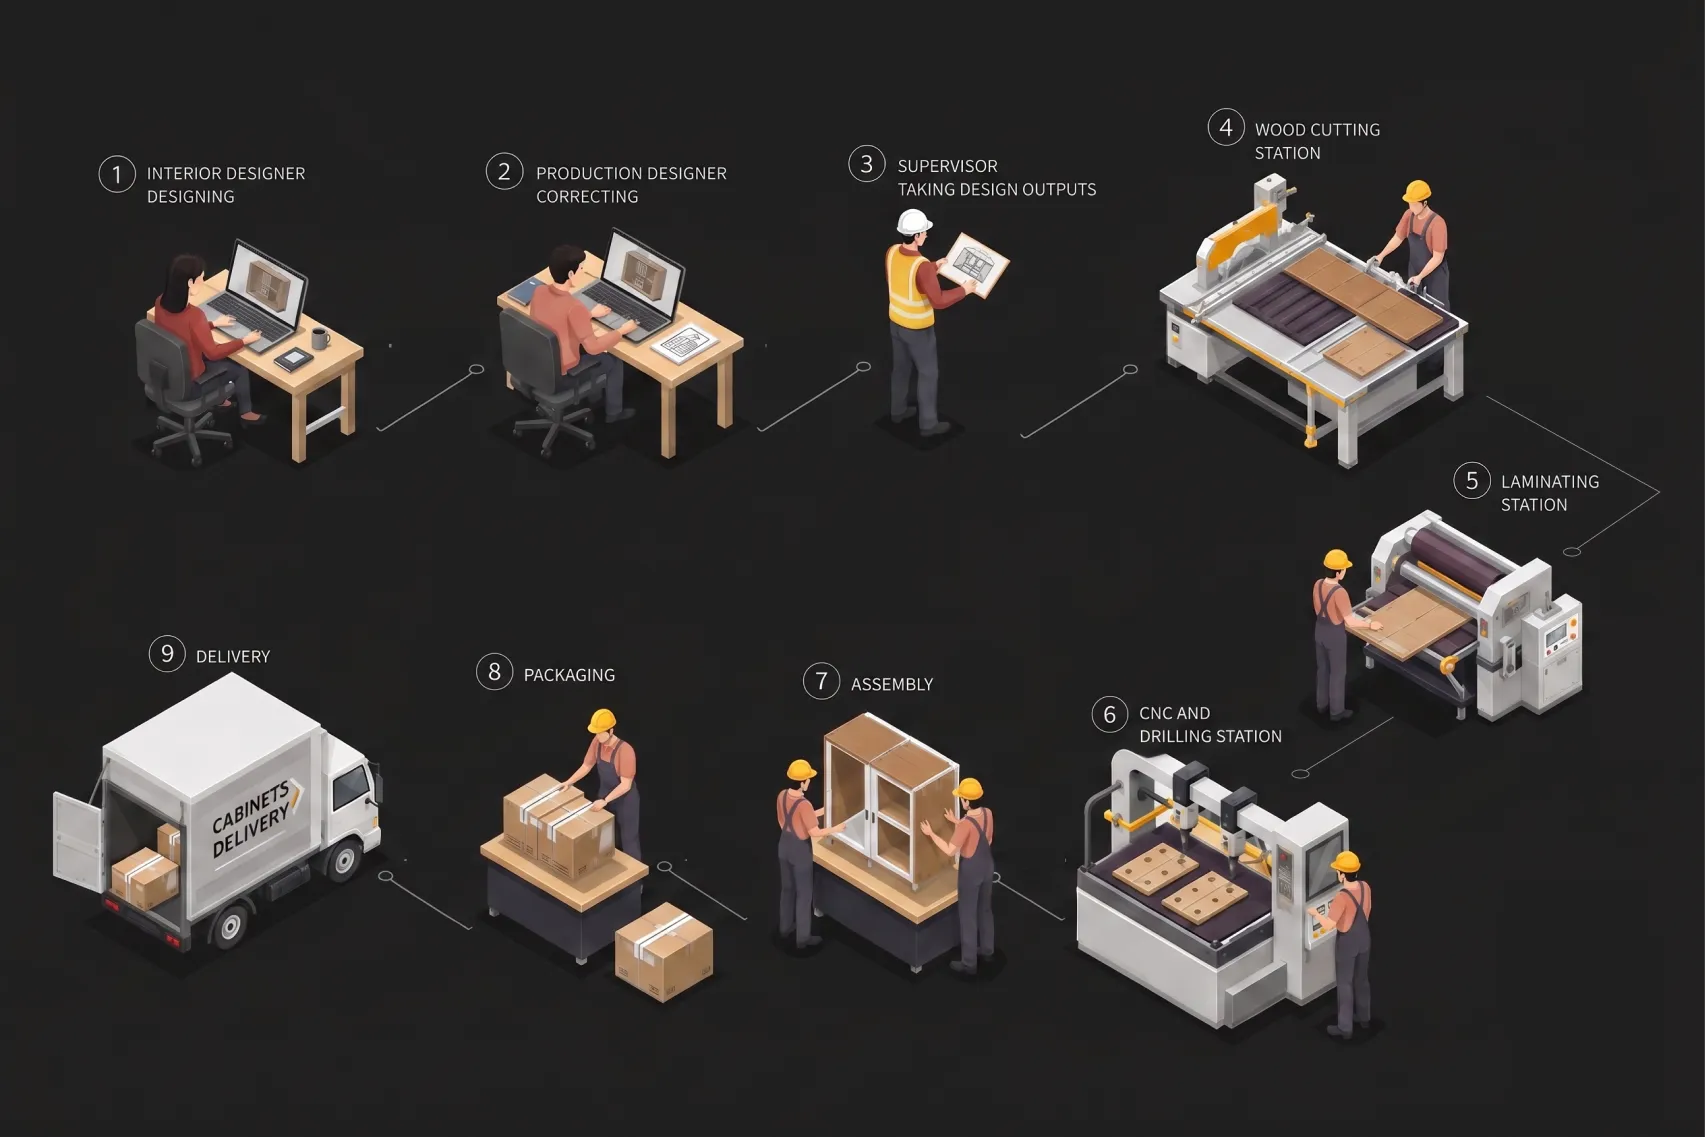
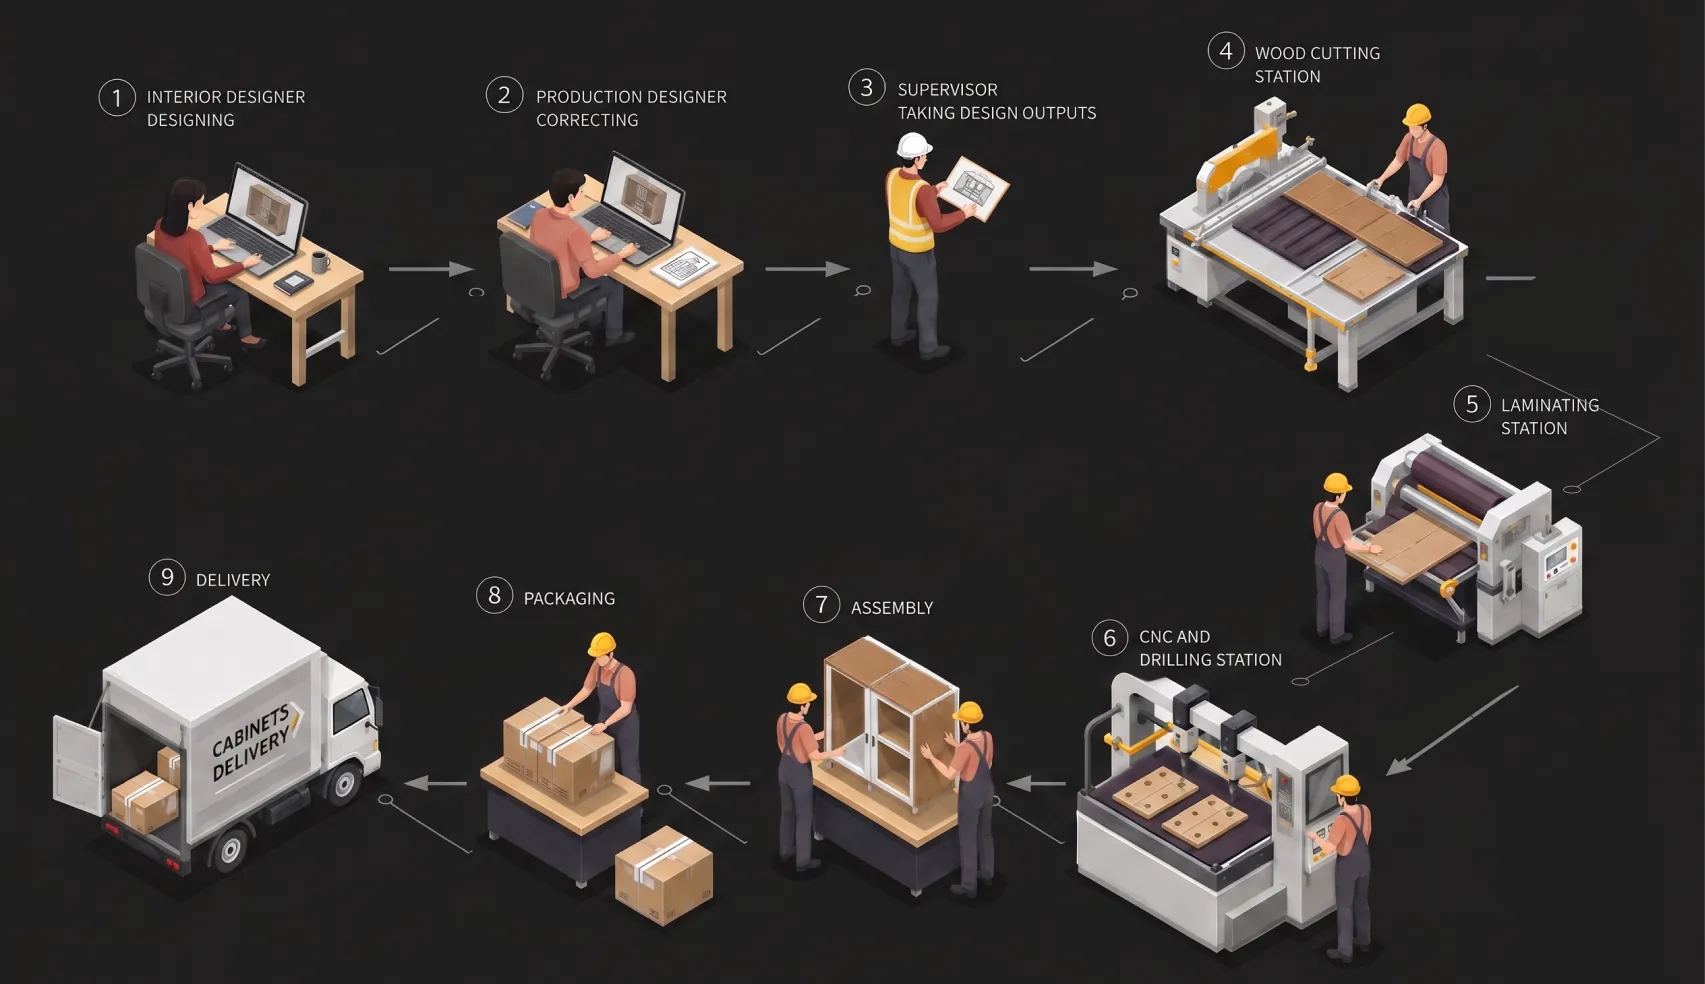
Polish hover crossfades, merge Published Work into Projects, tune homepage cards
- Scope the SSO/MES cover crossfade trigger to the "View product" hint text
  and fix a layout shift on hover; scale down swap product images slightly.
- Turn "View published works" into a real open/hide toggle with a rotating
  chevron, move the Published Work block inside the Projects section, and
  strip its now-redundant background pattern.
- Add a touch more vertical padding to the homepage project cards.
- Update journey and MES cover banner images.

diff --git a/index.html b/index.html
@@ -198,15 +198,14 @@
 
     </div>
     <a href="#publications" class="view-published-link" id="viewPublishedLink">
-      <svg viewBox="0 0 24 24" fill="none" stroke="currentColor" stroke-width="2" stroke-linecap="round" stroke-linejoin="round" aria-hidden="true"><polyline points="6 9 12 15 18 9"></polyline></svg>
-      View published works
+      <svg class="view-published-chevron" viewBox="0 0 24 24" fill="none" stroke="currentColor" stroke-width="2" stroke-linecap="round" stroke-linejoin="round" aria-hidden="true"><polyline points="6 9 12 15 18 9"></polyline></svg>
+      <span class="view-published-label">View published works</span>
     </a>
-  </section>
 
-  <!-- PUBLICATIONS -->
-  <section class="publications" id="publications" style="display:none;">
-    <h2 class="sec-title">Published Work</h2>
-    <div class="cards-list">
+    <!-- PUBLICATIONS -->
+    <div class="publications" id="publications" style="display:none;">
+      <h2 class="sec-title">Published Work</h2>
+      <div class="cards-list">
 
       <!-- Large card -->
       <a href="lumigo-coded.html" class="hcard pub-large fade-up">
@@ -308,6 +307,7 @@
         </a>
 
       </div>
+    </div>
     </div>
   </section>
 
@@ -612,11 +612,21 @@
   <script>
     const viewPublishedLink = document.getElementById('viewPublishedLink');
     const publicationsSection = document.getElementById('publications');
+    const viewPublishedLabel = viewPublishedLink && viewPublishedLink.querySelector('.view-published-label');
     if (viewPublishedLink && publicationsSection) {
       viewPublishedLink.addEventListener('click', (e) => {
         e.preventDefault();
-        publicationsSection.style.display = '';
-        publicationsSection.scrollIntoView({ behavior: 'smooth', block: 'start' });
+        const isOpen = publicationsSection.style.display !== 'none';
+        if (isOpen) {
+          publicationsSection.style.display = 'none';
+          viewPublishedLabel.textContent = 'View published works';
+          viewPublishedLink.classList.remove('is-open');
+        } else {
+          publicationsSection.style.display = '';
+          viewPublishedLabel.textContent = 'Hide published work';
+          viewPublishedLink.classList.add('is-open');
+          publicationsSection.scrollIntoView({ behavior: 'smooth', block: 'start' });
+        }
       });
     }
   </script>

diff --git a/style.css b/style.css
@@ -531,7 +531,7 @@ h1, h2, h3, h4, h5, h6 {
   align-items: center;
   gap: 6px;
   width: fit-content;
-  margin: 56px auto 0;
+  margin: 28px auto 0;
   font-size: 13px;
   color: var(--muted);
   text-decoration: none;
@@ -540,6 +540,10 @@ h1, h2, h3, h4, h5, h6 {
   width: 14px;
   height: 14px;
   flex-shrink: 0;
+  transition: transform 0.25s ease;
+}
+.view-published-link.is-open svg {
+  transform: rotate(180deg);
 }
 .view-published-link:hover {
   color: var(--blue);
@@ -563,7 +567,7 @@ h1, h2, h3, h4, h5, h6 {
 }
 
 .hcard-text {
-  padding: 32px 36px;
+  padding: 40px 36px;
   display: flex;
   flex-direction: column;
   min-height: 0;
@@ -687,11 +691,15 @@ h1, h2, h3, h4, h5, h6 {
 
 .hcard-img-swap {
   opacity: 0;
+  transform: scale(0.9);
   transition: opacity 0.8s ease, transform 0.4s ease;
 }
 .hcard:hover .hcard-img-swap {
   opacity: 1;
   transition: opacity 0.8s ease 0.6s, transform 0.4s ease;
+}
+.hcard:hover .hcard-img .hcard-img-swap.hcard-img-contain {
+  transform: scale(0.9);
 }
 
 .hcard-img:has(.hcard-img-swap) > img:not(.hcard-img-swap) {
@@ -833,25 +841,6 @@ h1, h2, h3, h4, h5, h6 {
 .publications {
   position: relative;
   padding: 80px 0;
-  background-color: #ffffff;
-}
-.publications::before {
-  content: "";
-  position: absolute;
-  inset: 0;
-  z-index: 0;
-  background-image: linear-gradient(45deg, transparent 14%, #F0F0F0 15%, #F0F0F0 20%, transparent 21%, transparent 79%, #F0F0F0 80%, #F0F0F0 85%, transparent 86%),
-    linear-gradient(135deg, transparent 14%, #F0F0F0 15%, #F0F0F0 20%, transparent 21%, transparent 79%, #F0F0F0 80%, #F0F0F0 85%, transparent 86%),
-    radial-gradient(transparent 14%, #F0F0F0 15%, #F0F0F0 25%, transparent 26%);
-  background-size: 1.4em 1.4em;
-  background-color: #ffffff;
-  -webkit-mask-image: linear-gradient(to bottom, #000 0, #000 calc(100% - 140px), transparent 100%);
-  mask-image: linear-gradient(to bottom, #000 0, #000 calc(100% - 140px), transparent 100%);
-}
-.publications > .sec-title,
-.publications > .cards-list {
-  position: relative;
-  z-index: 1;
 }
 
 

diff --git a/aihub-security-coded.css b/aihub-security-coded.css
@@ -51,11 +51,11 @@ h1 .mi, h2 .mi, h3 .mi, h4 .mi {
   opacity: 0;
   transition: opacity 0.3s ease;
 }
-.cover-laptop-wrap:hover .cover-laptop-img:not(.cover-laptop-swap) {
+.cover-laptop-wrap:has(.cover-laptop-hint:hover) .cover-laptop-img:not(.cover-laptop-swap) {
   opacity: 0;
   transition: opacity 0.3s ease 0.1s;
 }
-.cover-laptop-wrap:hover .cover-laptop-swap {
+.cover-laptop-wrap:has(.cover-laptop-hint:hover) .cover-laptop-swap {
   opacity: 1;
   transition: opacity 0.3s ease 0.1s;
 }

diff --git a/mes-coded.css b/mes-coded.css
@@ -344,10 +344,6 @@ img.brand-logo {
   opacity: 1;
   transition: opacity 0.3s ease 0.1s;
 }
-.cover-product-block:has(.cover-laptop-hint:hover) .cover-laptop-wrap {
-  margin-bottom: 20px;
-  transition: margin-bottom 0.3s ease 0.1s;
-}
 
 /* ---------- Video embed ---------- */
 .video-embed {
